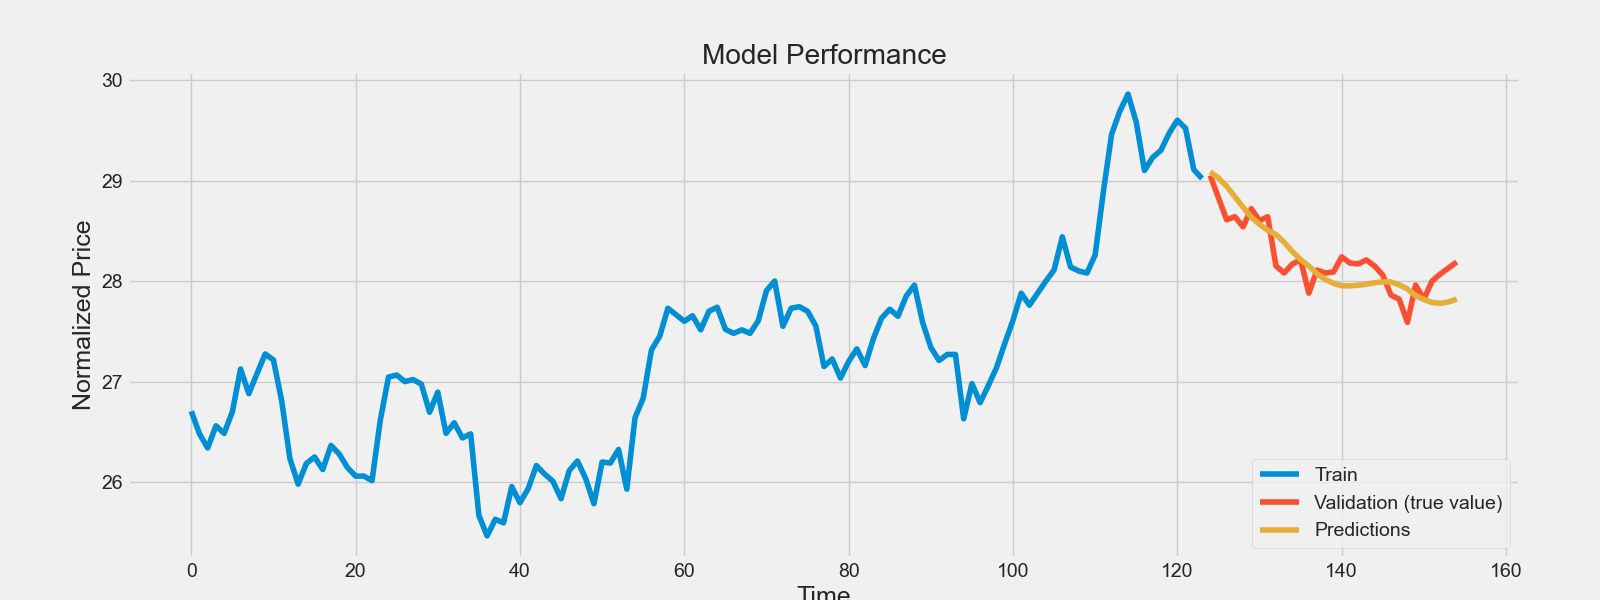
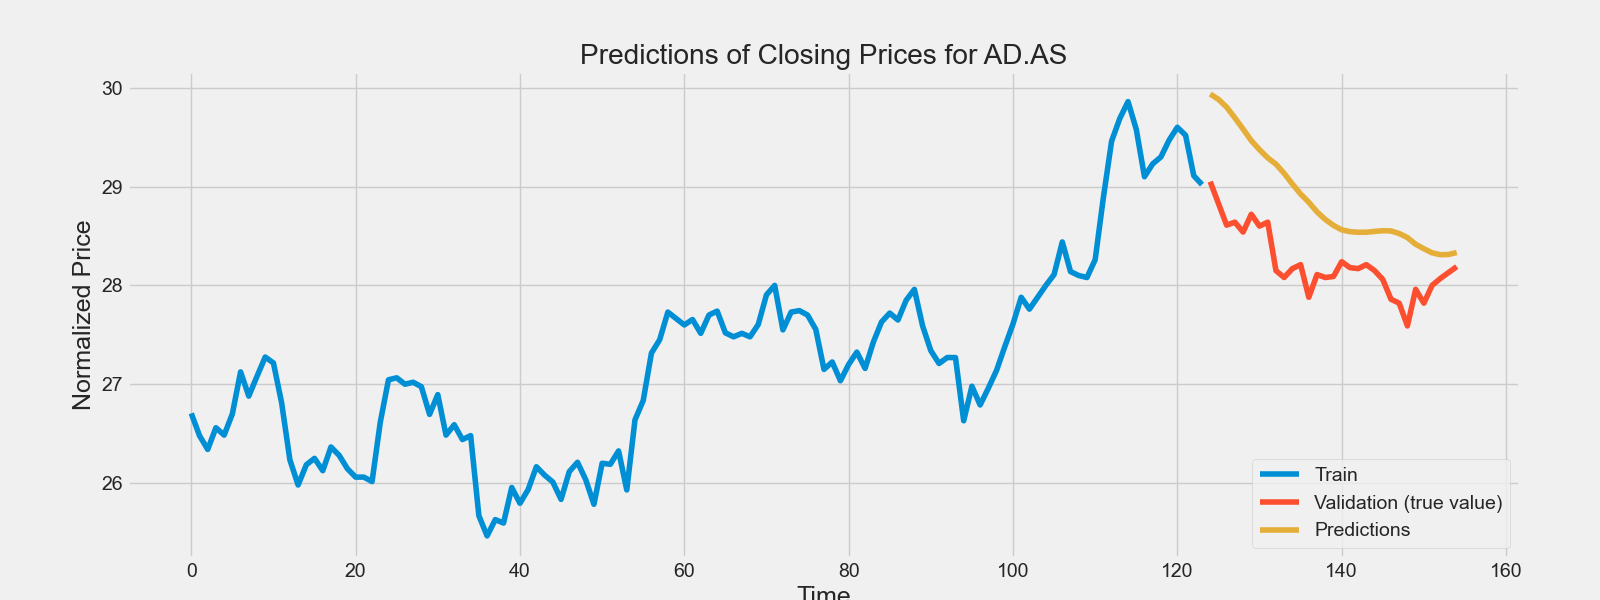
[fix] model title variable was missing

diff --git a/analysis.py b/analysis.py
@@ -107,7 +107,7 @@ def plot_predictions(x_train, y_train, x_valid, predictions, Y, scaler, stock_ti
     title = 'Predictions of Closing Prices'
     if stock_ticker:
         title += f' for {stock_ticker}'
-    plt.title('Model Performance')
+    plt.title(title)
     plt.xlabel('Time', fontsize=18)
     plt.ylabel('Normalized Price', fontsize=18)
     # Assuming x_train, y_train, and x_valid are sequences of normalized prices
